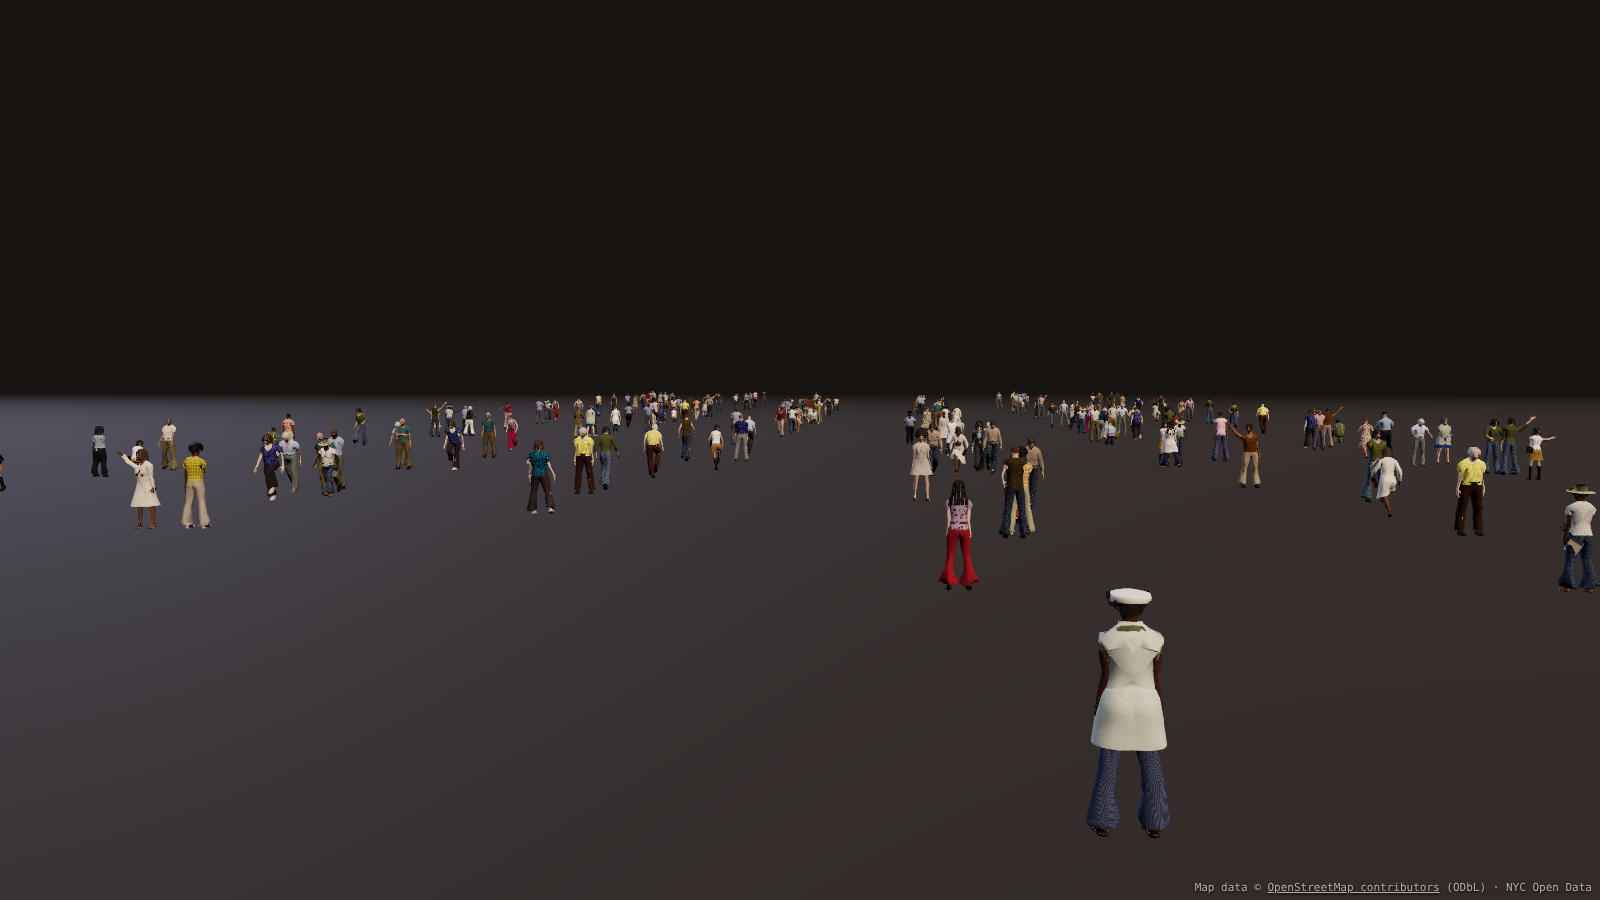
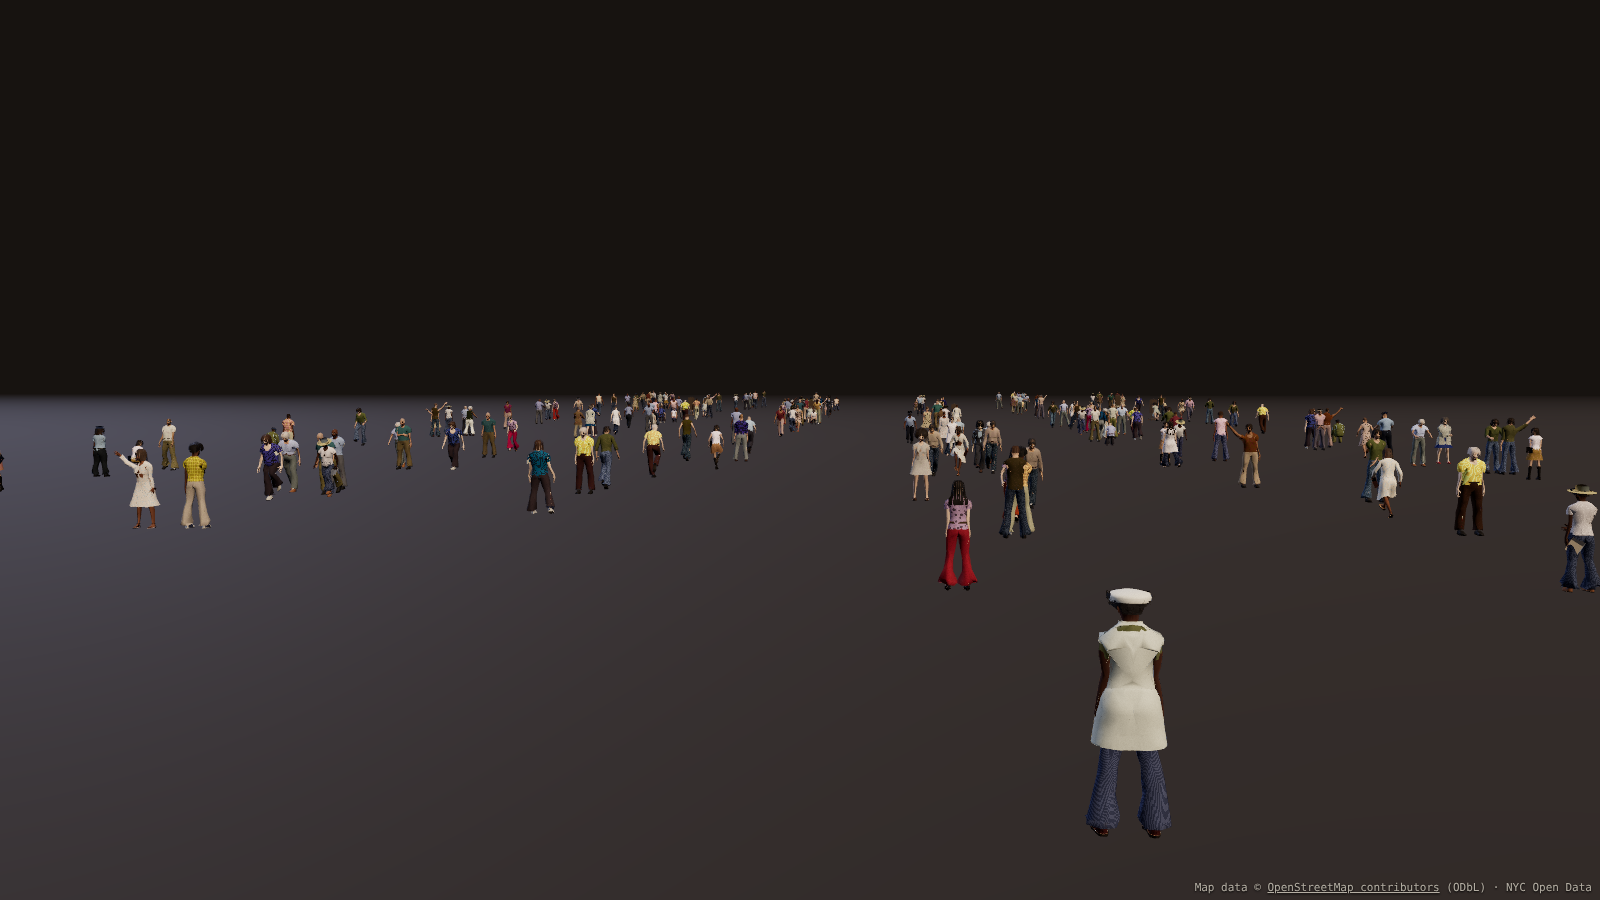
Characters: Rocketbox evaluation results (faces A/B, numbers, hybrid recommendation); Block A measurements (heroes 20–25k tris, crowd 400 High 0.39 ms, street scenes, downloads 8.13 / 1.99 MiB)
Claude-Session: https://claude.ai/code/session_01H4ZSJ9HHC3JhC3uZj5pVfG

diff --git a/src/characters/eval/rocketbox.ts b/src/characters/eval/rocketbox.ts
@@ -21,13 +21,15 @@ export interface RocketboxHead {
   bytes: number;
 }
 
+const qp = (k: string) => (typeof location !== 'undefined' ? new URLSearchParams(location.search).get(k) : null);
+
 export async function loadRocketboxHead(base: string, name: string): Promise<RocketboxHead> {
   const res = await fetch(`${base}eval/rb_${name}.bin`);
   const buf = await res.arrayBuffer();
   const c = readContainer(buf);
   const B = (k: string) => c.blobs.get(k) as any;
   const tl = new THREE.TextureLoader();
-  const load = async (f: string, srgb: boolean) => { const t = await tl.loadAsync(`${base}eval/${f}`); t.colorSpace = srgb ? THREE.SRGBColorSpace : THREE.NoColorSpace; t.flipY = false; t.anisotropy = 4; return t; };
+  const load = async (f: string, srgb: boolean) => { const t = await tl.loadAsync(`${base}eval/${f}`); t.colorSpace = srgb ? THREE.SRGBColorSpace : THREE.NoColorSpace; t.flipY = qp('rbflip') !== '0'; t.anisotropy = 4; return t; };
   const color = await load(`rb_${name}_color.webp`, true), normal = await load(`rb_${name}_normal.webp`, false);
   const hasOp = (c.meta.counts.opacityTris ?? 0) > 0;
   const opacity = hasOp ? await load(`rb_${name}_opacity.webp`, true) : null;
@@ -65,12 +67,17 @@ export function rocketboxHeadMesh(h: RocketboxHead, fit: ReturnType<typeof fitHe
   if (h.idxOpacity.length) geo.addGroup(h.idxSkin.length, h.idxOpacity.length, 1);
   geo.computeBoundingSphere();
   const skin = new THREE.MeshSSSNodeMaterial({ map: h.color, normalMap: h.normal, roughness: 0.52 });
-  skin.normalScale = new THREE.Vector2(1, -1);
+  skin.normalScale = new THREE.Vector2(1, qp('rbn') === '-1' ? -1 : 1);
   // warm transmission like our own skin shader
   skin.thicknessColorNode = vec3(0.4, 0.1, 0.05); skin.thicknessScaleNode = float(1.0); skin.thicknessPowerNode = float(3); skin.thicknessDistortionNode = float(0.15);
-  void texture; void uv; void attribute; void mix;
+  void attribute; void mix;
   const mats: THREE.Material[] = [skin];
-  if (h.opacity) { const op = new THREE.MeshStandardNodeMaterial({ map: h.opacity, alphaTest: 0.4, side: THREE.DoubleSide, roughness: 0.6 }); op.alphaToCoverage = true; mats.push(op); }
+  if (h.opacity) {
+    const op = new THREE.MeshStandardNodeMaterial({ side: THREE.DoubleSide, roughness: 0.7 });
+    const t = texture(h.opacity, uv());
+    op.colorNode = t.rgb; op.opacityNode = t.a; op.alphaTest = 0.4; op.alphaToCoverage = true;
+    mats.push(op);
+  }
   const m = new THREE.SkinnedMesh(geo, mats.length > 1 ? mats : mats[0]);
   m.bind(skeleton, bindMatrix);
   m.frustumCulled = false; m.castShadow = true;

diff --git a/src/characters/Character.ts b/src/characters/Character.ts
@@ -67,12 +67,13 @@ export class Character {
     this.appearance = (opts.build?.appearance ?? (opts as { appearance?: Appearance }).appearance) ?? generateAppearance(desc.seed);
     this.outfit = (opts.build?.outfit ?? (opts as { outfit?: Outfit }).outfit) ?? generateOutfit(desc.seed ^ 0x5bd1e995, { sex: this.appearance.sex, age: this.appearance.age, archetype: desc.archetype, ...opts.outfitCtx });
     // evaluation: a substituted Rocketbox head sets the body's skin tone to match its texture
-    if (desc.overrides?.rbHead) { const t = (desc.overrides.rbHead as RocketboxHead).meta.tone; const l = ['1', '3', '5'].map((i) => parseInt(t.slice(+i, +i + 2), 16) / 255); const lum = 0.2126 * l[0] + 0.7152 * l[1] + 0.0722 * l[2]; this.appearance = { ...this.appearance, skin: { ...this.appearance.skin, tone: t, melanin: Math.min(1, Math.max(0, 1 - lum * 1.6)) } }; }
+    const toneOv = (desc.overrides?.rbHead as RocketboxHead | undefined)?.meta.tone ?? (desc.overrides?.skinTone as string | undefined);
+    if (toneOv) { const t = toneOv; const l = ['1', '3', '5'].map((i) => parseInt(t.slice(+i, +i + 2), 16) / 255); const lum = 0.2126 * l[0] + 0.7152 * l[1] + 0.0722 * l[2]; this.appearance = { ...this.appearance, skin: { ...this.appearance.skin, tone: t, melanin: Math.min(1, Math.max(0, 1 - lum * 1.6)) } }; }
     // desc.overrides.hair / facialHair: appearance overrides (tests, cast tweaks)
     if (desc.overrides?.hair) this.appearance = { ...this.appearance, hair: { ...this.appearance.hair, ...(desc.overrides.hair as object) } };
     if (desc.overrides?.facialHair) this.appearance = { ...this.appearance, facialHair: desc.overrides.facialHair as Appearance['facialHair'] };
     // desc.overrides: shallow per-slot outfit overrides, e.g. { shoes: { kind: 'pump' } } (tests, cutscenes)
-    if (desc.overrides) for (const [k, v] of Object.entries(desc.overrides)) if (k in this.outfit && k !== 'hair' && k !== 'rbHead') {
+    if (desc.overrides) for (const [k, v] of Object.entries(desc.overrides)) if (k in this.outfit && k !== 'hair' && k !== 'rbHead' && k !== 'skinTone') {
       const cur = (this.outfit as unknown as Record<string, unknown>)[k];
       (this.outfit as unknown as Record<string, unknown>)[k] = v && typeof v === 'object' && cur && typeof cur === 'object' ? { ...cur, ...v } : v;
     }

diff --git a/src/characters/test/CharactersTest.ts b/src/characters/test/CharactersTest.ts
@@ -86,9 +86,9 @@ async function lineup(world: THREE.Scene, camera: THREE.PerspectiveCamera, facto
       const female = name.startsWith('Female'), old = name === 'Male_Adult_03';
       let seed = 700 + i * 31;
       for (let k = 0; k < 400; k++) { const a = generateAppearance(hash2(seed, k)); if ((a.sex < 0.5) === female && (old ? a.age > 55 : a.age > 25 && a.age < 45)) { seed = hash2(seed, k); break; } }
-      const ov = { hat: null };
+      const ov = { hat: null, glasses: null };
       chars.push(factory.spawn(world, { seed, overrides: { ...ov, rbHead: head } }));
-      chars.push(factory.spawn(world, { seed, overrides: ov }));
+      chars.push(factory.spawn(world, { seed, overrides: { ...ov, skinTone: head.meta.tone } })); // same tone: a fair A/B
       report.rocketbox = [...(report.rocketbox ?? []), { name, bytes: head.bytes, headTris: head.meta.counts.skinTris + head.meta.counts.opacityTris, tone: head.meta.tone }];
     }
   } else if (scene === 'hair') {

diff --git a/docs/CHARACTERS_PROGRESS.md b/docs/CHARACTERS_PROGRESS.md
@@ -72,45 +72,44 @@ src/characters/    rig.ts (56 joints, UAL names), format.ts (T74X container), in
 ## Measurements
 CPU numbers come from this container's CPU: Node/V8 for the offline harnesses, headless Chromium for
 the scenes. Rendering here is SwiftShader **software**, so GPU frame times can't be measured.
-Real-device numbers are still needed (the user tests on an iPhone).
+Real-device numbers are still needed (the user tests on an iPhone). Every shot and its JSON report
+is reproducible with `bash tools/characters/shots.sh` (URLs listed there).
 
-**Heroes (LOD0)**
-- Triangles: about 16.8k main + 2.3k hair on average (max 19.3k + 3.9k); Teddy is 17.3k. 2 draws.
-- Per-frame update: **0.044 ms avg, 0.057 ms p95** (walking, foot IK on a 0.15 m curb, look-at;
-  `tools/characters/scratch/cpu.ts` harness). Budget 0.3 ms.
-- Build at spawn: about 80–110 ms (assemble) + 9 ms (evaluate), main thread.
+**Heroes (LOD0)**, after Block A (shoes, hair cards, buttons):
+- Triangles: main about 17.8k (shoes about 3.3–4.5k of it) + hair 2.2k (afro) to 7.6k (long
+  straight, bob) = **20–25.4k**, within the 20–30k budget. 2 draws.
+- Per-frame update: **0.05–0.09 ms avg, 0.06 ms p95** (`tools/characters/scratch/cpu.ts`). Budget 0.3 ms.
+- Build at spawn: about 45–170 ms (assemble; card hair and the shoe loft added about 30 ms), main thread.
 
-**Crowd LODs (triangles):** LOD1 (near ring) about 7.2k + 1.4k hair; LOD2 about 4.1k; LOD3 about 1.8k.
+**Pedestrians (LOD1, lineup):** 9.0–10.5k triangles including hair, 2 draws.
+**Crowd LODs:** LOD2 about 3.4–4.5k (shoes about 0.3–0.7k); LOD3 about 1.5–2.3k (shoes about 150–380).
 
-**Crowd: 400 agents, High (`19_crowd_400_high`, 145 measured frames)**
-- `setAgents` CPU: **0.40 ms avg, 1.2 ms p95** (budget 1.5 ms), including 10 near-ring
-  characters.
-- 74 draws, about 544k triangles in view (10 near, 46 mid, 158 far, 186 culled); atlas 33
-  templates, half-float.
+**Crowd: 400 agents, High (`19_crowd_400_high`, 145 frames, measured with nothing else running)**
+- `setAgents` CPU: **0.39 ms avg, 1.1 ms p95** (budget 1.5 ms), including 10 near-ring characters.
+- 74 draws, about 554k triangles in view (10 near, 46 mid, 158 far, 186 culled); 33 templates.
+- (A run during other CPU load measured 0.63/1.4 ms; the clean number is the one above.)
 
 **Crowd: 120 agents, Low (`20_crowd_120_low`)**
-- `setAgents` CPU: **0.18 ms avg, 0.5 ms p95**.
-- 18 draws, about 94k triangles; 12 templates; near ring of 2 at LOD2.
+- `setAgents` CPU: **0.20 ms avg, 0.5 ms p95**. 18 draws, about 96k triangles; near ring of 2 at LOD2.
+
+**Crowd on a real street (engine city, West 22nd Street at 13:30, `24`–`26`)**
+- 140 agents, eye level, High: **0.46 ms avg, 1.4 ms p95**, 65 draws, 368k tris.
+- 400 agents from 6 m, High: **0.43 ms avg, 0.9 ms p95**, 65 draws, 760k tris (158 mid-LOD in view).
+- 120 agents, Low: **0.24 ms avg, 0.9 ms p95**, 25 draws, 224k tris.
 
 **Foot sliding** (`npx tsx tools/characters/measure-sliding.ts`; ankle drift while planted, 3 bodies
-× 3 crowd speeds):
+× 3 crowd speeds; re-measured after heeled shoes pitch the foot):
 
 | Speed | Raw stride match (no IK lock: instanced crowds) | Near characters (IK lock) |
 |---|---|---|
 | 0.8 m/s | 30–110 mm/s | 1–7 mm/s |
-| 1.3 m/s | 110–165 mm/s | 9–14 mm/s |
-| 1.75 m/s | 160–210 mm/s | 17–23 mm/s |
-
-- Most of the raw figure is heel and toe roll inside the source clip's broad contact windows; the
-  signed (net) drift averages near zero after calibration (`STRIDE_CAL` in Animator).
-- Instanced crowds have no IK, so they show the raw figure. It reads at mid and far distance;
-  a tighter contact-window measure is next.
+| 1.3 m/s | 110–165 mm/s | 8–17 mm/s |
+| 1.75 m/s | 160–210 mm/s | 17–28 mm/s |
 
 **Downloads**
-- High: body.bin 6.9 MiB + anims.bin 1.0 MiB = **7.9 MiB** (budget 15).
-- **Mobile Low: body_low.bin 0.95 MiB + anims.bin 1.0 MiB = 1.95 MiB** (budget 6). It keeps only
-  the far-LOD vertices, 32 shape components and no expressions; Low uses LOD2 for heroes and the
-  near ring.
+- High: body.bin 6.9 MiB + anims.bin 0.97 MiB + fabric maps 0.26 MiB = **8.13 MiB** (budget 15).
+- **Mobile Low: body_low.bin 0.95 MiB + anims.bin 0.97 MiB + fabric maps 0.07 MiB = 1.99 MiB**
+  (budget 6; oversight's target was about 1.95 MiB, so the fabric set adds 0.04 MiB).
 
 ## Critique of the lineup and leads (honest)
 Shots: `shots/characters/01_lineup_a_vs_refs.png` and `02_lineup_b_vs_refs.png` show 20 seeded
@@ -181,6 +180,54 @@ including close-ups. Locomotion frames are `10`–`17`; crowds are `19` and `20`
 - The lighting in the lineup and lead shots is a neutral test rig; `24`–`26` use the engine's own
   atmosphere on a real street (West 22nd Street at 13:30).
 
+## Rocketbox evaluation (user-approved, via oversight; nothing switched)
+**Question:** would Microsoft Rocketbox avatars close the realism gap? (`27_rocketbox_ab`,
+`28_rocketbox_faces_ab`; scene `?characters=1&scene=rocketbox`.)
+- **Licence:** MIT (repo `LICENSE.md`; README "November 2020 License Update"). Redistributable in
+  a web game with the notice shipped. Full text in `docs/CHARACTER_SOURCES.md` §6. Adults only; the
+  library's `Children` folder was never fetched.
+- **What was built:** the head (skin, eyes, teeth, lashes and hair cards) of three adults
+  (Male_Adult_12, Male_Adult_03, Female_Adult_11), fitted onto our parametric body by eye
+  midpoint and interocular distance, skinned to our Head/jaw/eyes/neck, the body's skin tone set
+  from the face texture, dressed in our 1974 wardrobe. Each stands beside the same seed, outfit and
+  tone with our own head.
+- **Result: the faces are far better.** Real eyes with wet highlights, visible ageing (Male_03),
+  photographic skin, believable hairlines. Our heads read as mannequins next to them. The gap is
+  almost entirely the face's *texture* (2K photographic albedo and normal maps); the geometry is
+  low (about 3k triangles per head versus our full-resolution head).
+
+| | Rocketbox head (hybrid) | Our head |
+|---|---|---|
+| Triangles (LOD1 pedestrian, whole person) | 8.2k–9.6k | 9.4k–10.3k |
+| Draws | 2 (no cards) or 3 (hair/lash cards) | 2 |
+| Download per head | 0.72 / 1.20 / 1.61 MB (0.3–0.5 MB possible: 512² opacity, quantised mesh) | 0 (generated) |
+| Build | 50–185 ms (same assembly; our hair skipped) | 105–170 ms |
+| Blinks, jaw, lips | facial bones exist (unused yet) | jaw + expression targets |
+
+**Recommendation: hybrid for the near ring, not a switch; the leads stay ours. This is the
+user's decision (base-mesh choices are theirs).**
+- **Don't switch.** Rocketbox is about 40 fixed adult bodies wearing baked modern clothes, with
+  no body morphs. A switch would lose the parametric variety (build, age, height) and the garment
+  system, which is cut from MakeHuman's topology and helpers.
+- **Hybrid (Rocketbox heads on our bodies) for the near ring and close pedestrians:**
+  - a large visual gain;
+  - CPU unchanged;
+  - about 0.5–1 MB per head on High (a pool of 12–16 heads is about 6–12 MB, inside the 15 MB High
+    budget);
+  - Low keeps our heads (Low stays at 1.99 MiB).
+  - **Costs to fix first:**
+    - a texture array or atlas to get back to 2 draws;
+    - matching body skin to the face (the tone is sampled, but the albedo detail doesn't
+      continue onto the neck and hands; the seam hides under collars, not under crew necks);
+    - only about 40 faces, so repeats in a long session;
+    - hats were sized for our heads.
+- **The leads stay ours** (or need bespoke textures): their faces come from narrative appearance
+  sheets, and Rocketbox faces are fixed. *Risk to flag:* Rocketbox faces are artist-made, and we
+  can't verify that none resembles a real person, which the brief forbids for anything we ship.
+- **Cheaper parallel route** (suggested next, not done): MakeHuman's own CC0 skin textures (and
+  our own baked albedo/normal detail) map onto our existing UVs. That would close part of the gap
+  for everyone, including Low and the leads, without a second asset family.
+
 ## Known issues (honest)
 - **Faces** read as "game" faces: dark eye rims, no wet-line geometry, no blinks, little visible
   ageing (next block).
@@ -198,9 +245,10 @@ including close-ups. Locomotion frames are `10`–`17`; crowds are `19` and `20`
   the worker before gameplay spawns heroes mid-scene.
 
 ## Next
-1. Write the lineup critique against the reference photos (after captures). Then: a reduced
-   Low download, impostors, a ledge-aligned climb, ankle pitch for heels, and lip-sync from
-   text timing.
+1. **Decision needed from the user:** the Rocketbox hybrid (above). Meanwhile, the next block
+   is faces: albedo/normal detail and age, eye rims, blinks (Rocketbox's facial-bone layout is a
+   good reference), lip-sync. Then posture (pockets, contrapposto, folded arms), impostors, and
+   a ledge-aligned climb.
 2. Consume `content/npc_archetypes/*.json` (53 archetypes). `npc.strip_worker` must vary in
    background and is never costumed or framed sexually.
 3. **Scope added by oversight (backlog, in priority order):**
